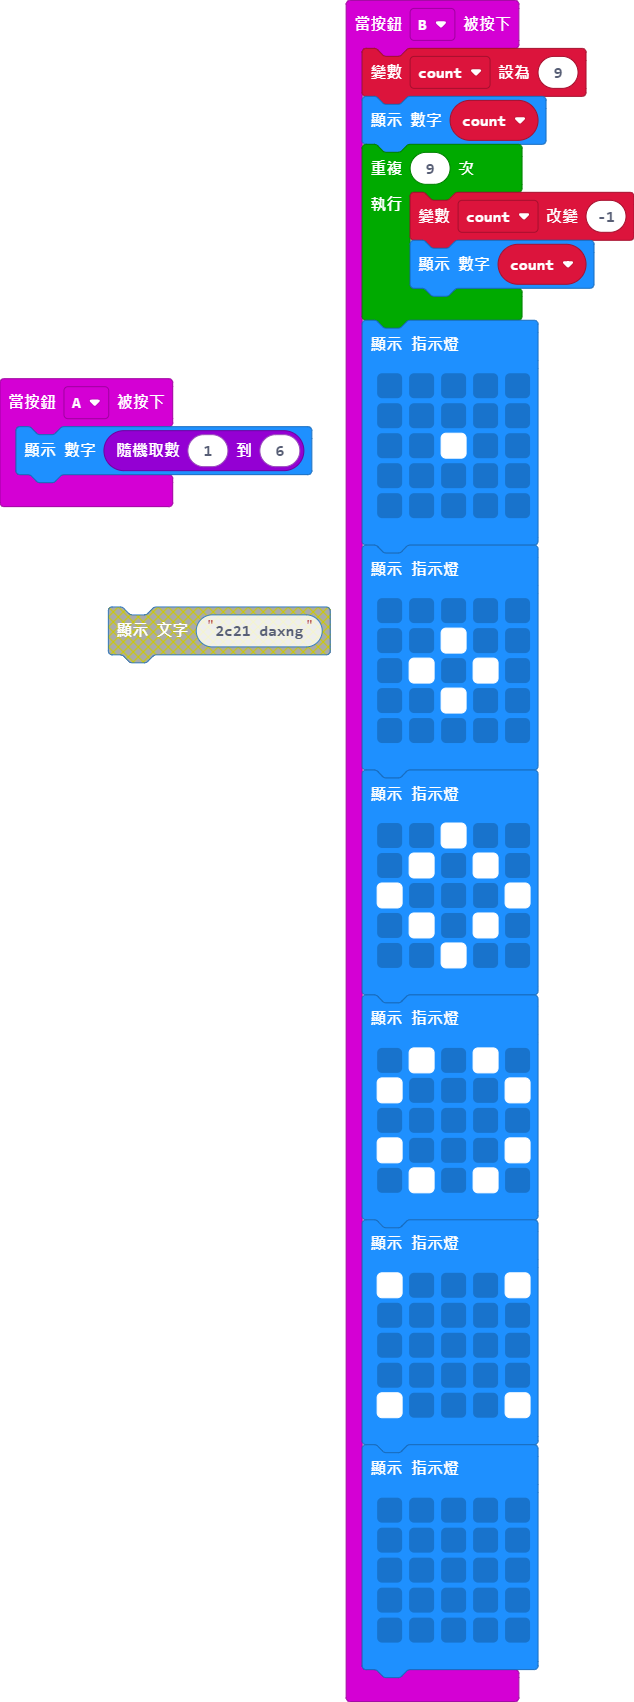
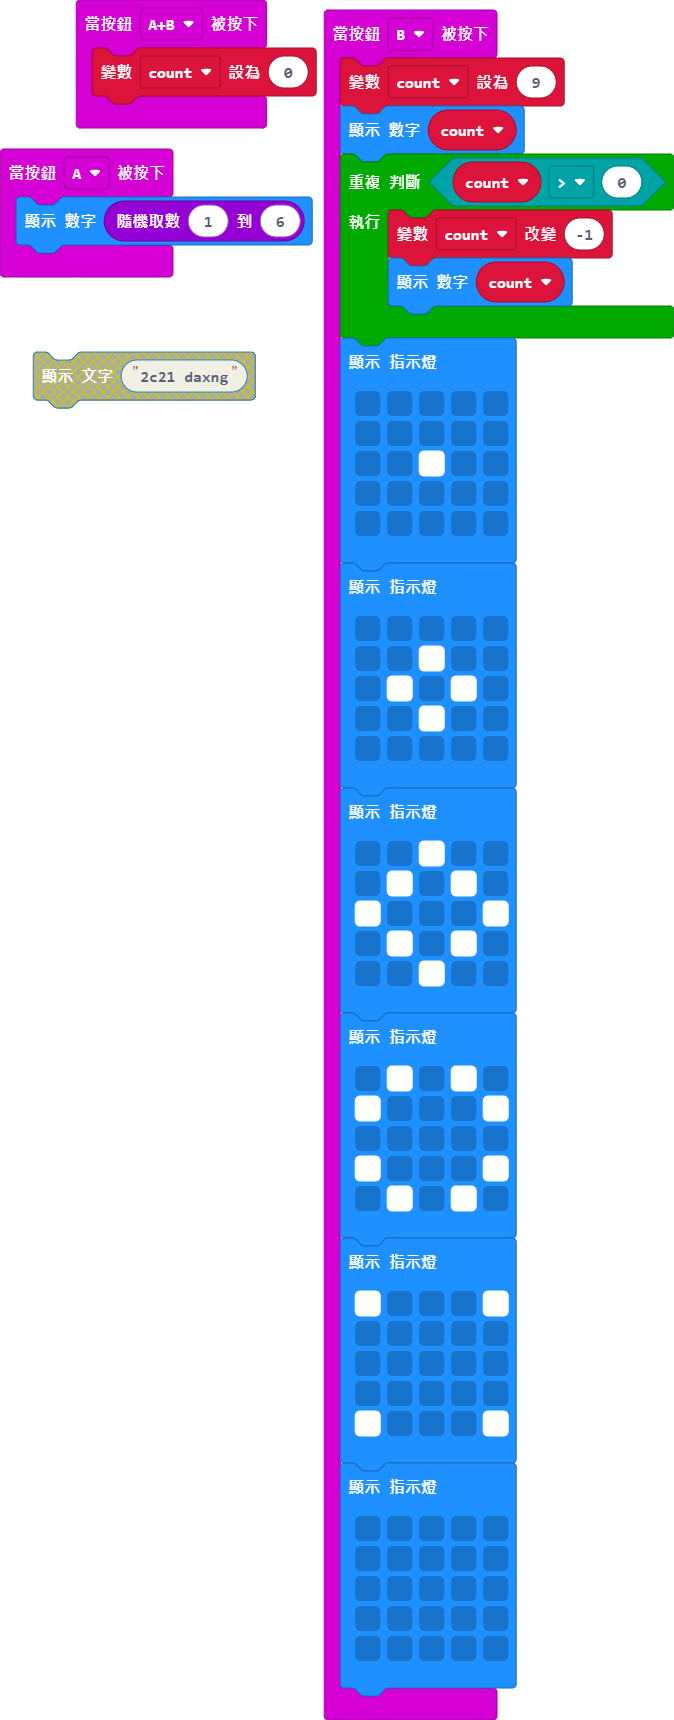
更新 main.blocks, main.ts

diff --git a/main.ts b/main.ts
@@ -2,10 +2,13 @@ let count = 0
 input.onButtonPressed(Button.A, function () {
     basic.showNumber(randint(1, 6))
 })
+input.onButtonPressed(Button.AB, function () {
+    count = 0
+})
 input.onButtonPressed(Button.B, function () {
     count = 9
     basic.showNumber(count)
-    for (let index = 0; index < 9; index++) {
+    while (count > 0) {
         count += -1
         basic.showNumber(count)
     }
